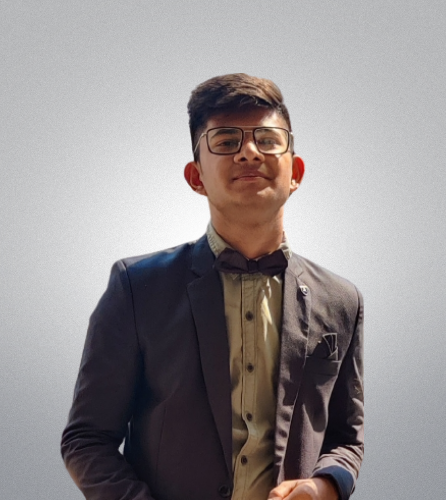
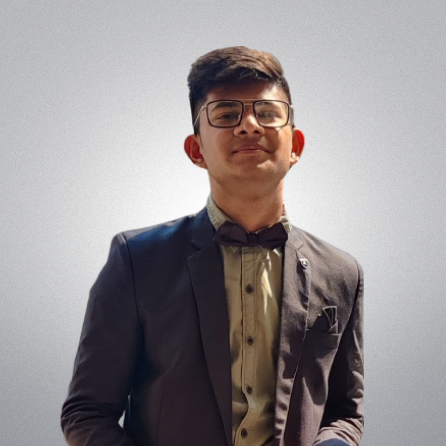
added team images

diff --git a/index.html b/index.html
@@ -33,7 +33,7 @@
           </div>
 
           <div>
-            <img src="./assets/profileE.png" alt="Image 2" class="img" />
+            <img src="./assets/devyani.jpg" alt="Image 2" class="img" />
             <div class="">
               <p class="name">Devyani Chavhan</p>
               <p class="position">Co-Lead</p>
@@ -41,7 +41,7 @@
 
           </div>
           <div>
-            <img src="./assets/profileE.png" alt="Image 2" class="img" />
+            <img src="./assets/piyu.jpg" alt="Image 2" class="img" />
             <div class="">
               <p class="name">Priyadarshani</p>
               <p class="position">Tech-Project Lead</p>
@@ -64,21 +64,21 @@
 
           </div>
           <div>
-            <img src="./assets/profileE.png" alt="Image 2" class="img" />
+            <img src="./assets/ankush.jpg" alt="Image 2" class="img" />
             <div class="">
               <p class="name">Ankush Mishra</p>
               <p class="position">PR Co-Lead</p>
             </div>
           </div>
           <div>
-            <img src="./assets/profileE.png" alt="Image 2" class="img" />
+            <img src="./assets/raj.jpg" alt="Image 2" class="img" />
             <div class="">
               <p class="name">Raj Gupta</p>
               <p class="position">Event Lead</p>
             </div>
           </div>
           <div>
-            <img src="./assets/profileE.png" alt="Image 2" class="img" />
+            <img src="./assets/piyanshu.jpg" alt="Image 2" class="img" />
             <div class="">
               <p class="name">Piyanshu Tajne</p>
               <p class="position">Event Co-Lead</p>
@@ -92,7 +92,7 @@
             </div>
           </div>
           <div>
-            <img src="./assets/profileE.png" alt="Image 2" class="img" />
+            <img src="./assets/gaurav.jpg" alt="Image 2" class="img" />
             <div class="">
               <p class="name">Gaurav Nimbalkar</p>
               <p class="position">Design Co-Lead</p>
@@ -100,14 +100,14 @@
           </div>
 
           <div>
-            <img src="./assets/profileE.png" alt="Image 2" class="img" />
+            <img src="./assets/anurag.png" alt="Image 2" class="img" />
             <div class="">
               <p class="name">Anurag Janunjalkar</p>
               <p class="position">Content Lead</p>
             </div>
           </div>
           <div>
-            <img src="./assets/profileE.png" alt="Image 2" class="img" />
+            <img src="./assets/santosh.jpg" alt="Image 2" class="img" />
             <div class="">
               <p class="name">Santosh Singh</p>
               <p class="position">Content Co-Lead</p>
